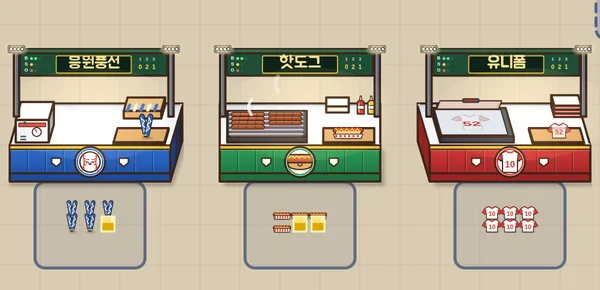
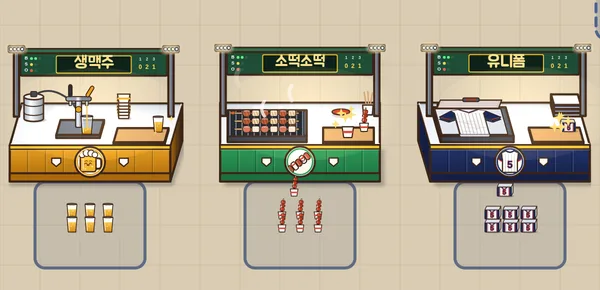
층층이: 10층 생맥주·소떡소떡(막대풍선·핫도그 교체), 두산 느낌 5번 유니폼(두께 있는 셔츠·프레스 위 천 두께), 팬 응원 타월

diff --git a/public/games/stack/index.html b/public/games/stack/index.html
@@ -325,31 +325,34 @@ const BUN_S = withDX(-16, () => boothDeck({ col:'#f2b630', dark:'#c4850f',
   PROP.box(22, 131, 82, 6, 30, '#3b414e', '#262a33', '#4a5262') +
   PROP.board(108, 0.04, 176, 0.34, '#d9a76a', '#b07e48', 4) +
   [0, 1].map(i => { const sx = 11*DX/DY, x = 194 + i*DX/16 + Math.min(0, DX)*1.2; return `<path d="M${x} ${100 - i*8} L${x + sx} ${89 - i*8} H${x + 30 + sx} L${x + 30} ${100 - i*8} Z" fill="#fbfcfd" stroke-width="1.5"/><path d="M${x} ${100 - i*8} H${x + 30} V${107 - i*8} H${x} Z" fill="#eef1f5" stroke-width="1.5"/><path d="M${x + 6 + sx/2} ${94.5 - i*8} H${x + 26 + sx/2}" stroke="#9aa6b8" stroke-width="1"/>`; }).join('')));   // 뒤: 접어 쌓아 둔 스티로폼 도시락(소품은 적게·크게) · 오른쪽 = 왼쪽 옆면
-// 10층 층층 야구장 매점(부스 틀) — 0번 응원 막대풍선(파랑) · 1번 핫도그(잔디 초록) · 2번 유니폼 마킹(빨강). 실제 구단 이름·로고·색 조합은 안 씀
+// 10층 층층 야구장 매점(부스 틀) — 0번 생맥주(호박색, 막대풍선은 금지라 바꿈 — 사용자) · 1번 소떡소떡(잔디 초록) · 2번 유니폼 마킹(남색 — 두산 느낌 색, 사용자 요청). 실제 구단 이름·로고는 안 씀
 const BB_ICON = {
-  ball: MCLIP + '<g clip-path="url(#mclip)"><circle cx="115" cy="156" r="13.5" fill="#fffdf6" stroke-width="1.8"/>' +   // 야구공 캐릭터: 빨간 실밥 + 웃는 얼굴
-    '<path d="M104.5 145 Q110 156 104.5 167 M125.5 145 Q120 156 125.5 167" fill="none" stroke="#d9302a" stroke-width="1.4"/>' +
-    [148, 152, 156, 160, 164].map(y => { const dx = 5.5 - Math.abs(y - 156)*0.35; return `<path d="M${104.5 + dx - 1.6} ${y - 1} l2.4 1.4 M${125.5 - dx + 1.6} ${y - 1} l-2.4 1.4" stroke="#d9302a" stroke-width="1"/>`; }).join('') +
-    MFACE(115, 156.5, 0.78, 'joy') + '</g>',
-  hotdog: MCLIP + '<g clip-path="url(#mclip)"><path d="M99 158 Q99 166 115 166 Q131 166 131 158 Q131 153 126 153 H104 Q99 153 99 158 Z" fill="#e8b46a" stroke-width="1.6"/>' +   // 핫도그: 빵 + 소시지(얼굴) + 머스터드
-    '<rect x="96" y="146" width="38" height="11" rx="5.5" fill="#c0603a" stroke-width="1.6"/><path d="M101 148.6 H128" stroke="#fff" stroke-width="1.2" opacity=".5"/>' +
-    '<path d="M100 151 l3.5 -3 3.5 3 3.5 -3 3.5 3 3.5 -3 3.5 3 3.5 -3 3.5 3" fill="none" stroke="#f2c230" stroke-width="1.6"/>' + MFACE(115, 159.5, 0.62) + '</g>',
+  beer: MCLIP + '<g clip-path="url(#mclip)"><path d="M122 151 h4 q4 0 4 4 v6 q0 4 -4 4 h-4" fill="none" stroke-width="2.6"/>' +   // 생맥주잔 캐릭터: 노란 맥주 + 흰 거품 구름 + 웃는 얼굴
+    '<rect x="102" y="147" width="21" height="22" rx="3" fill="#f2b630" stroke-width="1.8"/><path d="M106 152 V165" stroke="#fff" stroke-width="1.4" opacity=".6"/>' +
+    '<g fill="#fffdf6" stroke-width="1.3">' + [[104.5, 146, 4.2], [110.5, 144, 4.6], [116.5, 144.6, 4.4], [121.5, 146.4, 3.8]].map(([x, y, r]) => `<circle cx="${x}" cy="${y}" r="${r}"/>`).join('') + '</g>' +
+    '<g fill="#fff8d0" stroke="none"><circle cx="118" cy="162" r="1"/><circle cx="109" cy="165" r=".8"/></g>' + MFACE(112.5, 158, 0.72, 'joy') + '</g>',
+  sotteok: MCLIP + '<g clip-path="url(#mclip)"><g transform="rotate(-38 115 156)"><path d="M93 156 H137" stroke="#c99a6a" stroke-width="2"/>' +   // 소떡소떡 캐릭터: 소시지·떡 번갈아 꽂힌 꼬치 + 빨간 양념 + 가운데 떡에 얼굴
+    [[99, 's'], [106, 't'], [113, 's'], [120, 't'], [127, 's']].map(([x, k]) => k === 's' ? `<rect x="${x - 3.2}" y="151" width="6.4" height="10" rx="3" fill="#c0503a" stroke-width="1.3"/><path d="M${x - 1.6} 153 V159" stroke="#fff" stroke-width=".9" opacity=".5"/>`
+      : `<rect x="${x - 3}" y="150.5" width="6" height="11" rx="2" fill="#fff4e8" stroke-width="1.3"/><path d="M${x - 3} 153 Q${x} 155 ${x + 3} 153" fill="none" stroke="#d93a1f" stroke-width="1.6"/>`).join('') +
+    MFACE(120, 157, 0.42) + '</g><g fill="#fffaf0" stroke="none"><circle cx="104" cy="149" r=".8"/><circle cx="125" cy="162" r=".8"/></g></g>',
   jersey: MCLIP + '<g clip-path="url(#mclip)"><path d="M104 144 L109.5 141.5 Q115 145.5 120.5 141.5 L126 144 L132 151 L127 154.5 L125 153 V170 H105 V153 L103 154.5 L98 151 Z" fill="#fffdf6" stroke-width="1.6"/>' +   // 유니폼: 흰 바탕 + 빨간 소매·깃 + 등번호
-    '<path d="M104 144 L98 151 L103 154.5 L105 153 Z M126 144 L132 151 L127 154.5 L125 153 Z" fill="#d33a3a" stroke-width="1.2"/><path d="M109.5 141.5 Q115 145.5 120.5 141.5" fill="none" stroke="#d33a3a" stroke-width="1.8"/>' +
-    '<text x="115" y="163.5" font-family="Arial Black, Arial, sans-serif" font-weight="900" font-size="12" text-anchor="middle" fill="#d33a3a" stroke="none">10</text></g>',
+    '<g stroke="#1a2a5a" stroke-width=".7" opacity=".35">' + [109, 113, 117, 121].map(x => `<path d="M${x} 146 V169"/>`).join('') + '</g>' +   // 남색 핀스트라이프(두산 느낌 — 이름·로고는 안 씀)
+    '<path d="M104 144 L98 151 L103 154.5 L105 153 Z M126 144 L132 151 L127 154.5 L125 153 Z" fill="#1a2a5a" stroke-width="1.2"/><path d="M99.5 152.6 L103.6 155.4 M130.5 152.6 L126.4 155.4" stroke="#d33a3a" stroke-width="1.2"/><path d="M109.5 141.5 Q115 145.5 120.5 141.5" fill="none" stroke="#1a2a5a" stroke-width="2"/>' +
+    '<text x="115" y="164" font-family="Arial Black, Arial, sans-serif" font-weight="900" font-size="13" text-anchor="middle" fill="#1a2a5a" stroke="#d33a3a" stroke-width="1" paint-order="stroke">5</text></g>',
 };
-const BAL10 = boothDeck({ col:'#2f6fd1', dark:'#1c4a9a', icon:BB_ICON.ball, roof:'board', fence:true },
-  PROP.box(160, 98, 50, 10, 18, '#d9a76a', '#b07e48', '#e3b77e') + [0, 1, 2, 3, 4].map(i => `<path d="M${165 + i*9} ${87} L${168 + i*9} ${80} " stroke="${i % 2 ? '#fffaf0' : '#2f6fd1'}" stroke-width="4"/>`).join('') +   // 뒤: 접힌 막대풍선 상자
-  PROP.box(16, 130, 44, 30, 24, '#e8edf2', '#9aa6b8', '#f4f6f9') + '<rect x="20" y="104" width="36" height="5" fill="#e0453a" stroke-width="1"/><g fill="#4a5262" stroke="none"><rect x="22" y="121" width="8" height="2" rx="1"/><rect x="22" y="125" width="8" height="2" rx="1"/></g>' +   // 왼쪽: 공기 주입기
-  PROP.board(146, 0.02, 214, 0.36, '#d9a76a', '#b07e48', 3));
-const HOT10 = withDX(0, () => boothDeck({ col:'#2e9e5a', dark:'#1d6e3e', icon:BB_ICON.hotdog, roof:'board', fence:true },
-  PROP.box(18, 130, 106, 8, 34, '#3b414e', '#262a33', '#4a5262') +   // 롤러 그릴 받침(롤러는 anim)
-  PROP.board(146, 0.02, 214, 0.36, '#d9a76a', '#b07e48', 3) + PROP.bottle(196, 92, '#d9302a', '#f4efe6', 20) + PROP.bottle(210, 92, '#f2c230', '#f4efe6', 20) +
-  PROP.box(150, 90, 30, 8, 12, '#fff3d6', '#e3cfa6', '#fffaf0')));   // 뒤: 소스 두 병 + 빵 봉지
-const UNI10 = withDX(-16, () => boothDeck({ col:'#d33a3a', dark:'#9a2222', icon:BB_ICON.jersey, roof:'board', fence:true },
+const BEER10 = boothDeck({ col:'#e8a020', dark:'#a8680c', icon:BB_ICON.beer, roof:'board', fence:true },
+  `<ellipse cx="42" cy="100" rx="15" ry="3.5" fill="#1e2433" opacity=".22" stroke="none"/><path d="M27 69 V98 A13 4 0 0 0 53 98 V69 Z" fill="url(#kg)" stroke-width="2"/><path d="M27 78 A13 4 0 0 0 53 78 M27 90 A13 4 0 0 0 53 90" fill="none" stroke-width="1.4"/>` +   // 뒤 왼쪽: 은색 맥주 통(케그) + 꼭지 + 호스
+  `<ellipse cx="40" cy="69" rx="13" ry="4" fill="#dfe5ec" stroke-width="2"/><rect x="36" y="62" width="8" height="7" rx="1.5" fill="#3b414e" stroke-width="1.4"/><path d="M44 65 C66 54 88 70 96 84" fill="none" stroke="#2c313b" stroke-width="2.6"/>` +
+  PROP.box(70, 124, 58, 4, 20, '#4a5262', '#2c313b', '#6b7484') +   // 물받이(맥주 타워는 anim)
+  `<g transform="translate(160 98) scale(1.3) translate(-160 -98)">${PROP.cups(160, 98, 6, '#e8a020')}</g>` + PROP.board(146, 0.02, 214, 0.36, '#d9a76a', '#b07e48', 3),
+  '<linearGradient id="kg" x1="0" y1="0" x2="1" y2="0"><stop offset="0" stop-color="#9aa6b8"/><stop offset=".35" stop-color="#f4f6f9"/><stop offset="1" stop-color="#7d8798"/></linearGradient>');
+const SOT10 = withDX(0, () => boothDeck({ col:'#2e9e5a', dark:'#1d6e3e', icon:BB_ICON.sotteok, roof:'board', fence:true },
+  PROP.box(18, 130, 106, 8, 34, '#3b414e', '#262a33', '#4a5262') +   // 숯불 그릴 받침(석쇠·꼬치는 anim)
+  PROP.board(146, 0.02, 214, 0.36, '#d9a76a', '#b07e48', 3) + PROP.dish(170, 94, 12, '#e8edf2', '#c8361c') + PROP.chop(206, 94)));   // 뒤: 양념 그릇 + 꼬치 통
+const UNI10 = withDX(-16, () => boothDeck({ col:'#24356b', dark:'#141f45', icon:BB_ICON.jersey, roof:'board', fence:true },
   PROP.box(22, 130, 98, 8, 38, '#3b414e', '#262a33', '#4a5262') +   // 열 프레스 받침(판·윗판은 anim)
   PROP.board(146, 0.02, 214, 0.36, '#d9a76a', '#b07e48', 3) +
-  [0, 1, 2].map(i => PROP.box(174, 96 - i*5, 36, 5, 14, '#fffaf0', '#d9dee6', i === 2 ? '#fffaf0' : '#f4f6f9') + `<path d="M${174} ${93 - i*5} H${210}" stroke="#d33a3a" stroke-width="1.4"/>`).join('')));   // 뒤: 개어 둔 유니폼
+  [0, 1, 2].map(i => PROP.box(174, 96 - i*5, 36, 5, 14, '#fffaf0', '#d9dee6', i === 2 ? '#fffaf0' : '#f4f6f9') + `<path d="M${174} ${93 - i*5} H${210}" stroke="#1a2a5a" stroke-width="1.4"/>`).join('')));   // 뒤: 개어 둔 유니폼
 // 2층 붕어빵 가게 3대 — 1층처럼 위에서 본 넓은 작업대(빨간 손수레 + 남색 메뉴판 + 바퀴·손잡이). 철판·틀 속이 다 보이게
 const CART = { front:'url(#pk)', strip:'url(#dw)', board:'#2d4a7a', edge:'#a87449', wheels:true, tilt:0.62,
   mat:'<pattern id="pk" width="62" height="12" patternUnits="userSpaceOnUse"><rect width="62" height="12" fill="#e0614a"/><path d="M0 11.4 H62" stroke="#a83a2c" stroke-width="1.3"/><path d="M3 4 q12 -2.5 24 0 M30 8 q14 2.5 28 0" stroke="#c94a38" stroke-width=".9" fill="none"/><path d="M44 0 V11.4" stroke="#a83a2c" stroke-width="1"/><circle cx="41" cy="6" r=".9" fill="#a83a2c"/></pattern><pattern id="dw" width="40" height="14" patternUnits="userSpaceOnUse"><rect width="40" height="14" fill="#8c5a3a"/><path d="M0 4 q10 -2 20 0 t20 0 M0 10 q12 2 22 0 t18 0" stroke="#6e4228" stroke-width="1" fill="none"/></pattern><radialGradient id="ih" cx="30%" cy="20%" r="80%"><stop offset="0" stop-color="#6b7384"/><stop offset=".5" stop-color="#454c5a"/><stop offset="1" stop-color="#2e333d"/></radialGradient>',
@@ -569,11 +572,11 @@ const THEMES = [
     item:{ name:'굿즈', shape:'moonjar', top:'#f6f3ea', front:'#f6f3ea',
       vars:[{ shape:'bangga', top:'#2c2b35', front:'#d9a52e' }, { shape:'moonjar', top:'#f6f3ea', front:'#f6f3ea' }, { shape:'crown', top:'#4fae7d', front:'#e8b923' }] } },
   // 10층 야구장 매점(부스 틀, 1층과 같은 그림 기준) · jingle = 들어오면 응원 북·박수
-  { staff:{ body:'#f4f6fa', dark:'#2d3f6b', vest:'#2e9e5a', badge:'#fff', hat:'baseball', hatCol:'#d33a3a' }, big:1.2, lamp:false, booth:true, roof:'board', pop:true, shop:'층층 야구장 매점', sign:'#1d6e3e', ink:'#fff', awn:'#2e9e5a', img:HOT10, anim:animHotdog10, spot:[182, 124], reveal:0.72, up:-2, jingle:'cheer',
-    mach:[{ img:BAL10, anim:animBalloon10, spot:[190, 124], vdx:16 }, { vdx:0 }, { img:UNI10, anim:animUniform10, spot:[186, 124], vdx:-16 }],   // vdx = 시점(왼쪽·정면·오른쪽)
-    guests:['fan', 'fanB', 'kid', 'office'], order:['핫도그 {n}개요! 홈런 치기 전에!', '막대풍선 {n}쌍이요~ 응원해야죠!', '유니폼 마킹 {n}벌요! 번호는 아무거나!', '7회 전에 빨리요~ {n}개!'], thanks:['오늘은 이긴다!', '홈런~ 홈런~!', '응원 가자!', '직관은 핫도그지!'],
-    item:{ name:'야구장 굿즈', shape:'hotdog', top:'#e8b46a', front:'#b0502a',
-      vars:[{ shape:'thunder', front:'#2f6fd1' }, { shape:'hotdog', top:'#e8b46a', front:'#b0502a' }, { shape:'jersey', top:'#fffaf0', front:'#d33a3a' }] } }
+  { staff:{ body:'#f4f6fa', dark:'#2d3f6b', vest:'#2e9e5a', badge:'#fff', hat:'baseball', hatCol:'#d33a3a' }, big:1.2, lamp:false, booth:true, roof:'board', pop:true, shop:'층층 야구장 매점', sign:'#1d6e3e', ink:'#fff', awn:'#2e9e5a', img:SOT10, anim:animSotteok10, spot:[182, 124], reveal:0.72, up:-2, jingle:'cheer',
+    mach:[{ img:BEER10, anim:animBeer10, spot:[190, 124], vdx:16 }, { vdx:0 }, { img:UNI10, anim:animUniform10, spot:[186, 124], vdx:-16 }],   // vdx = 시점(왼쪽·정면·오른쪽)
+    guests:['fan', 'fanB', 'kid', 'office'], order:['생맥주 {n}잔이요! 시원하게!', '소떡소떡 {n}개요! 양념 듬뿍!', '유니폼 마킹 {n}벌요! 번호는 아무거나!', '7회 전에 빨리요~ {n}개!'], thanks:['오늘은 이긴다!', '홈런~ 홈런~!', '직관엔 소떡소떡!', '시원하다~!', '응원 가자!'],
+    item:{ name:'야구장 간식', shape:'sotteok', top:'#c0503a', front:'#fffaf0',
+      vars:[{ shape:'beer', top:'#fffdf6', front:'#e8a020' }, { shape:'sotteok', top:'#c0503a', front:'#fffaf0' }, { shape:'jersey', top:'#fffaf0', front:'#1a2a5a' }] } }
 ];
 // 가게 미리보기(설정): 지금 층을 다른 층 가게 모습으로 바꿔 봄. 그림만 바뀌고 값·저장은 그대로. null = 층대로, -1 = 원래 스타일
 let PREVIEW = null;
@@ -1963,9 +1966,9 @@ function item(x, y, z, kind, noBadge){
     ctx.strokeStyle = '#f2c27a'; ctx.lineWidth = 2.2*s; ctx.beginPath(); ctx.moveTo(sx + 3.6*s, sy - h - 1.8*s); ctx.lineTo(sx + 4.9*s, sy - h - 6*s); ctx.stroke();
     return;
   }
-  if (K.shape === 'thunder') { stickPair(sx, sy, scale*0.75, K.front, 1, 1, scale*0.7); return; }   // 10층: 묶은 막대풍선 한 쌍
-  if (K.shape === 'hotdog') { hotdogAt(sx, sy, scale*0.5, scale*0.7, { ketchup:1, mustard:1, paper:1 }); return; }   // 종이 받침 핫도그
-  if (K.shape === 'jersey') { jerseyAt(sx, sy, scale*0.7, scale*0.7, K.front, 10); return; }   // 마킹한 유니폼
+  if (K.shape === 'beer') { beerCup(sx, sy, scale*0.62, scale*0.7); return; }   // 10층: 거품 가득 생맥주 컵
+  if (K.shape === 'sotteok') { sotteokCup(sx, sy, scale*0.55, scale*0.7); return; }   // 종이컵에 꽂은 소떡소떡
+  if (K.shape === 'jersey') { jerseyAt(sx, sy, scale*0.75, scale*0.7); return; }   // 개어 둔 5번 유니폼
   if (K.shape === 'sundae') { styroBox(sx, sy, scale, 0.62, 1); return; }   // 순대: 닫힌 스티로폼 도시락
   if (K.shape === 'kimbap') { foilRoll(sx, sy, scale, 0.62); return; }   // 김밥: 은박에 둘둘 만 한 줄
   const w = 14*scale, h = 9*scale;
@@ -2317,106 +2320,117 @@ function animSundae({ S2, u, now, prog, work, s }){
 
 }
 // ---- 10층 야구장 매점(부스 그림풍) ----
-function stickPair(x, yb, q, col, tie = 1, spread = 1, u = q){   // 세워 묶은 막대풍선 한 쌍(V자), (x, yb) = 묶은 아래 끝
-  ctx.fillStyle = 'rgba(30,36,51,.22)'; ctx.beginPath(); ctx.ellipse(x + 1*q, yb, 6*q, 1.8*q, 0, 0, Math.PI*2); ctx.fill();
-  [-1, 1].forEach(d => { ctx.save(); ctx.translate(x, yb - 1*q); ctx.rotate(d*0.2*spread);
-    rr(-2.6*q, -24*q, 5.2*q, 24*q, 2.6*q); const g = ctx.createLinearGradient(-2.6*q, 0, 2.6*q, 0); g.addColorStop(0, col); g.addColorStop(1, shadeHex(col)); ctx.fillStyle = g; ctx.fill(); inkStroke(1, u);
-    ctx.strokeStyle = '#fff'; ctx.lineWidth = 1*q; ctx.beginPath(); for (let i = 0; i < 5; i++) ctx.lineTo((i % 2 ? 1.4 : -1.4)*q, -20*q + i*3.6*q); ctx.stroke();   // 흰 지그재그 무늬
-    ctx.fillStyle = 'rgba(255,255,255,.55)'; ctx.fillRect(-1.6*q, -21*q, 0.9*q, 15*q); ctx.restore(); });
-  if (tie > 0) { ctx.strokeStyle = '#f2c230'; ctx.lineWidth = 1.4*q; ctx.beginPath(); ctx.moveTo(x - 3*q, yb - 3*q); ctx.lineTo(x - 3*q + 6*q*tie, yb - 3*q); ctx.stroke(); }
+function beerCup(x, yb, q, u, f = 1, foam = 1){   // 투명 플라스틱 맥주 컵(위가 넓음), f = 맥주 찬 정도, foam = 거품(1 넘으면 넘칠 듯 봉긋)
+  const H = 24*q, wt = 8*q, wb = 6*q, X = t => wb + (wt - wb)*t, cup = h => { const w = X(h/H); ctx.beginPath(); ctx.moveTo(x - wb, yb); ctx.lineTo(x - w, yb - h); ctx.lineTo(x + w, yb - h); ctx.lineTo(x + wb, yb); ctx.closePath(); };
+  ctx.fillStyle = 'rgba(30,36,51,.2)'; ctx.beginPath(); ctx.ellipse(x + 1*q, yb, wb + 2*q, 1.8*q, 0, 0, Math.PI*2); ctx.fill();
+  cup(H); ctx.fillStyle = 'rgba(235,245,252,.55)'; ctx.fill();
+  const h = H*0.72*f;
+  if (f > 0) { cup(h); const g = ctx.createLinearGradient(0, yb - h, 0, yb); g.addColorStop(0, '#f9cf55'); g.addColorStop(1, '#d98a14'); ctx.fillStyle = g; ctx.fill();
+    const now = performance.now(); ctx.fillStyle = 'rgba(255,250,215,.85)'; for (let i = 0; i < 4; i++) { const t = (now/900 + i*0.27) % 1; if (t*h > h - 2*q) continue; ctx.beginPath(); ctx.arc(x + (i - 1.5)*3*q, yb - 2*q - t*(h - 2*q), 0.7*q, 0, Math.PI*2); ctx.fill(); } }   // 올라가는 기포
+  if (f > 0 && foam > 0) { const w = X(h/H), fh = 6.5*q*foam; rr(x - w - 0.4*q, yb - h - fh, w*2 + 0.8*q, fh + 1.5*q, 1.5*q); ctx.fillStyle = '#fffdf6'; ctx.fill();   // 거품(위가 몽글몽글)
+    for (let i = 0; i < 4; i++) { ctx.beginPath(); ctx.arc(x - w + w*0.5 + i*w*0.5 - 0.6*q, yb - h - fh + 0.6*q, w*0.34, Math.PI, 0); ctx.fill(); } }
+  cup(H); ctx.strokeStyle = INK; ctx.lineWidth = 1.1*u; ctx.stroke();
+  ctx.beginPath(); ctx.ellipse(x, yb - H, wt, 1.4*q, 0, 0, Math.PI*2); ctx.lineWidth = 0.9*u; ctx.stroke();
+  ctx.strokeStyle = 'rgba(255,255,255,.75)'; ctx.lineWidth = 1.2*q; ctx.beginPath(); ctx.moveTo(x - wb + 1.6*q, yb - 2.5*q); ctx.lineTo(x - wt + 2.2*q, yb - H + 3*q); ctx.stroke();   // 컵 반사
 }
-function thunderLying(x0, y, f, col, u){   // 작업대에 누운 막대풍선: f 0 = 납작 · 1 = 빵빵
-  const len = (58 + 22*f)*u, r = (1.4 + 5.6*f)*u;
-  ctx.fillStyle = 'rgba(30,36,51,.2)'; ctx.beginPath(); ctx.ellipse(x0 + len/2 + 2*u, y + r, len/2, 1.4*u + r*0.3, 0, 0, Math.PI*2); ctx.fill();
-  rr(x0, y - r, len, r*2, r); const g = ctx.createLinearGradient(0, y - r, 0, y + r); g.addColorStop(0, col); g.addColorStop(1, shadeHex(col)); ctx.fillStyle = g; ctx.fill(); inkStroke(1.1, u);
-  if (f > 0.25) { ctx.strokeStyle = `rgba(255,255,255,${f})`; ctx.lineWidth = 1*u; ctx.beginPath(); for (let i = 0; i < 9; i++) ctx.lineTo(x0 + 6*u + i*(len - 12*u)/8, y + (i % 2 ? 1 : -1)*r*0.45); ctx.stroke();
-    ctx.fillStyle = 'rgba(255,255,255,.6)'; rr(x0 + 4*u, y - r*0.75, len - 10*u, Math.max(0.6*u, r*0.28), r*0.14); ctx.fill(); }
-  ctx.beginPath(); ctx.moveTo(x0 + 1*u, y); ctx.lineTo(x0 - 3*u, y - 2*u); ctx.lineTo(x0 - 3*u, y + 2*u); ctx.closePath(); ctx.fillStyle = shadeHex(col); ctx.fill();   // 꼭지
-}
-// 0번 응원 막대풍선: 공기 주입기 호스로 하나(4~32%) → 둘째(30~58%) 빵빵 → 세워서 한 쌍으로 묶기(58~70%) → 앞 나무 판
-function animBalloon10({ S2, u, now, prog, work, s }){
-  menuSign(S2, u, now, s, '응원풍선', '#ffe08a', 23, 21);
-  const col = '#2f6fd1', f1 = work ? lerp01(prog, 0.04, 0.32) : 1, f2 = work ? lerp01(prog, 0.3, 0.58) : 1, up = work ? lerp01(prog, 0.58, 0.66) : 0, tie = work ? lerp01(prog, 0.64, 0.7) : 0;
-  const pumping = work && prog > 0.04 && prog < 0.58, act = prog < 0.31 ? 0 : 1;
-  { const [gx, gy] = S2(44, 116); ctx.beginPath(); ctx.arc(gx, gy, 6*u, 0, Math.PI*2); ctx.fillStyle = '#fffdf6'; ctx.fill(); inkStroke(1.4, u);   // 압력계(펌프질하면 바늘이 오름)
-    const a = -2.4 + (pumping ? 2 + Math.sin(now/50)*0.2 : 0.3); ctx.strokeStyle = '#d9302a'; ctx.lineWidth = 1.3*u; ctx.beginPath(); ctx.moveTo(gx, gy); ctx.lineTo(gx + Math.cos(a)*4.6*u, gy + Math.sin(a)*4.6*u); ctx.stroke();
-    const [lx, ly] = S2(28, 108); ctx.fillStyle = pumping && Math.floor(now/200) % 2 ? '#5df08a' : '#2a6a3a'; ctx.beginPath(); ctx.arc(lx, ly - 4*u, 2*u, 0, Math.PI*2); ctx.fill(); }
-  const B = [[...S2(...BP(68, 0.36))], [...S2(...BP(68, 0.14))]], F = [f1, f2];
-  if (up <= 0) B.forEach(([x, y], i) => thunderLying(x, y - 6*u, F[i], col, u));
-  if (pumping) { const [hx, hy] = S2(58, 100), [nx, ny] = B[act], ex = nx - 4*u, ey = ny - 4*u;   // 호스
-    ctx.strokeStyle = INK; ctx.lineWidth = 3.4*u; ctx.beginPath(); ctx.moveTo(hx, hy); ctx.bezierCurveTo(hx + 10*u, hy + 4*u, ex - 12*u, ey - 10*u, ex, ey); ctx.stroke(); ctx.strokeStyle = '#4a5262'; ctx.lineWidth = 2*u; ctx.stroke();
-    for (let i = 0; i < 3; i++) { const t = (now/240 + i/3) % 1; ctx.strokeStyle = `rgba(255,255,255,${0.9*(1 - t)})`; ctx.lineWidth = 1*u; ctx.beginPath(); ctx.moveTo(ex - 2*u - t*6*u, ey - 3*u - i*2*u); ctx.lineTo(ex - 5*u - t*6*u, ey - 4*u - i*2*u); ctx.stroke(); } }
+// 0번 생맥주: 맥주 타워(크롬 기둥 + 꼭지 둘 + 손잡이) — 물받이 위 빈 컵 → 오른쪽 손잡이 당기면 콸콸(6~50%, 맥주가 차오르고 30%부터 거품) → 거품 가라앉힘(50~60%) → 앞 나무 판으로(62~72%)
+function animBeer10({ S2, u, now, prog, work, s }){
+  menuSign(S2, u, now, s, '생맥주', '#ffe08a', 23, 23);
+  const [bx, b0] = S2(...BP(94, 0.36)), by = b0 - 4*u, top = by - 38*u, sx = bx + 11*u;   // 타워 바닥(물받이 위) · 꼭지 x
+  const pour = work && prog > 0.06 && prog < 0.5, f = work ? lerp01(prog, 0.06, 0.5) : 1, foam = work ? (prog < 0.3 ? 0 : prog < 0.5 ? 1.3*lerp01(prog, 0.3, 0.45) : 1.3 - 0.3*lerp01(prog, 0.5, 0.6)) : 1;
+  const [, c0] = S2(...BP(99, 0.2)), cy = c0 - 4*u;
+  { const g = ctx.createLinearGradient(bx - 4*u, 0, bx + 4*u, 0); g.addColorStop(0, '#9aa6b8'); g.addColorStop(0.4, '#f7f9fb'); g.addColorStop(1, '#7d8798'); rr(bx - 4*u, top, 8*u, by - top, 2*u); ctx.fillStyle = g; ctx.fill(); inkStroke(1.4, u);   // 크롬 기둥
+    ctx.beginPath(); ctx.arc(bx, top + 14*u, 4*u, 0, Math.PI*2); ctx.fillStyle = '#e8a020'; ctx.fill(); inkStroke(1, u);   // 기둥 메달
+    rr(bx - 17*u, top - 3*u, 34*u, 6*u, 3*u); ctx.fillStyle = g; ctx.fill(); inkStroke(1.4, u);   // 가로대
+    [-11, 11].forEach(d => { const on = d > 0 && pour, a = on ? 0.55 : 0, hx = bx + d*u;   // 손잡이(당기면 앞으로 기울어짐) + 꼭지
+      ctx.save(); ctx.translate(hx, top - 3*u); ctx.rotate(a); rr(-2.4*u, -16*u, 4.8*u, 16*u, 2.4*u); ctx.fillStyle = d > 0 ? '#e8a020' : '#2c313b'; ctx.fill(); inkStroke(1.2, u); ctx.restore();
+      ctx.beginPath(); ctx.moveTo(hx - 2*u, top + 3*u); ctx.lineTo(hx - 1.5*u, top + 9*u); ctx.lineTo(hx + 1.5*u, top + 9*u); ctx.lineTo(hx + 2*u, top + 3*u); ctx.closePath(); ctx.fillStyle = '#cfd6e0'; ctx.fill(); inkStroke(1, u); }); }
+  if (!work || prog < 0.62) beerCup(sx, cy, u, u, f, foam);
+  if (pour) { ctx.strokeStyle = 'rgba(242,182,48,.95)'; ctx.lineWidth = (2.2 + Math.sin(now/60)*0.4)*u; ctx.beginPath(); ctx.moveTo(sx, top + 9*u); ctx.lineTo(sx + Math.sin(now/90)*0.4*u, cy - 24*u*0.72*f); ctx.stroke();   // 맥주 줄기
+    ctx.strokeStyle = 'rgba(255,255,255,.6)'; ctx.lineWidth = 0.7*u; ctx.stroke(); }
   const [px, py] = S2(190, 124);
-  if (work && up > 0 && prog < 0.72) { ctx.save(); ctx.globalAlpha = up; stickPair(px, py, u*(0.9 + 0.4*up), col, tie, 1 + 0.3*Math.sin(now/90)*(1 - tie), u); ctx.restore();
-    if (tie >= 1) for (let i = 0; i < 6; i++) { const a = i/6*Math.PI*2 + now/300; ctx.strokeStyle = '#ffe08a'; ctx.lineWidth = 1.4*u; ctx.beginPath(); ctx.moveTo(px + Math.cos(a)*16*u, py - 26*u + Math.sin(a)*10*u); ctx.lineTo(px + Math.cos(a)*21*u, py - 26*u + Math.sin(a)*13*u); ctx.stroke(); } }   // '짝!' 반짝
-  if (!work || prog < 0.58) stickPair(...S2(204, 122), u*0.9, col, 1, 1, u);   // 판 위에 만들어 둔 한 쌍(늘 하나)
+  if (work && prog >= 0.62 && prog < 0.72) { const t = lerp01(prog, 0.62, 0.71), x = sx + (px - sx)*t, y = cy + (py - cy)*t - Math.sin(t*Math.PI)*16*u; beerCup(x, y, u, u, 1, 1); }   // 판으로 옮김
+  if (!work || prog < 0.62) beerCup(...S2(206, 116), u*0.85, u, 1, 1);   // 판 위에 따라 둔 한 잔
 }
-// 1번 핫도그: 롤러 그릴(롤러 여섯 줄 + 소시지 여덟 개가 빙글) — 앞 오른쪽 소시지가 노릇(0~40%) → 빵으로 쏙(40~48%) → 케첩(50~60%) · 머스터드(60~68%) 지그재그 → 종이 받침(68~72%)
-function hotdogAt(x, yb, q, u, o = {}){   // 옆에서 본 핫도그(빵 + 소시지 + 소스), o = { sausage, ketchup 0~1, mustard 0~1, paper 0~1 }
-  const w = 30*q; ctx.fillStyle = 'rgba(30,36,51,.22)'; ctx.beginPath(); ctx.ellipse(x + 1*q, yb, w/2 + 2*q, 2*q, 0, 0, Math.PI*2); ctx.fill();
-  rr(x - w/2, yb - 9*q, w, 9*q, 4.5*q); const g = ctx.createLinearGradient(0, yb - 9*q, 0, yb); g.addColorStop(0, '#f2c98a'); g.addColorStop(1, '#c98a3e'); ctx.fillStyle = g; ctx.fill(); inkStroke(1.1, u);   // 빵(벌어진 아래쪽)
-  if (o.sausage !== false) { rr(x - w/2 - 2.5*q, yb - 12*q, w + 5*q, 6*q, 3*q); const sg = ctx.createLinearGradient(0, yb - 12*q, 0, yb - 6*q); sg.addColorStop(0, '#d9784a'); sg.addColorStop(1, '#9a4220'); ctx.fillStyle = sg; ctx.fill(); inkStroke(1, u);
-    ctx.fillStyle = 'rgba(255,255,255,.55)'; ctx.fillRect(x - w/2, yb - 11*q, w - 4*q, 1*q); }
-  rr(x - w/2 + 1*q, yb - 8*q, w - 2*q, 4*q, 2*q); ctx.fillStyle = '#f6d6a0'; ctx.fill();   // 빵 앞쪽 볼록
-  const zig = (f, c, dy) => { if (f <= 0) return; ctx.strokeStyle = c; ctx.lineWidth = 1.6*q; ctx.beginPath(); const n = Math.max(1, Math.floor(f*9)); for (let i = 0; i <= n; i++) ctx.lineTo(x - w/2 + 1*q + i*(w - 2*q)/9, yb - 10*q + dy + (i % 2 ? 1.6 : -1.6)*q); ctx.stroke(); };
-  zig(o.ketchup || 0, '#d9302a', -0.6*q); zig(o.mustard || 0, '#f2c230', 0.8*q);
-  if (o.paper > 0) { const h = 7*q*o.paper; ctx.beginPath(); ctx.moveTo(x - w/2 - 2*q, yb - h); ctx.lineTo(x + w/2 + 2*q, yb - h); ctx.lineTo(x + w/2, yb + 0.5*q); ctx.lineTo(x - w/2, yb + 0.5*q); ctx.closePath(); ctx.fillStyle = '#fffaf0'; ctx.fill(); inkStroke(1, u);   // 종이 받침(빨간 체크)
-    ctx.fillStyle = '#e0453a'; for (let i = 0; i < 6; i++) ctx.fillRect(x - w/2 + i*w/6, yb - h + 1*q, w/12, Math.max(0, h - 2*q)); }
+// 1번 소떡소떡: 숯불 석쇠 위 꼬치 넷(소시지·떡 번갈아) — 맨 앞 꼬치가 노릇 + 석쇠 자국(0~40%) → 붓으로 빨간 양념(40~60%) → 깨·파슬리(60~66%) → 앞 종이컵에 쏙(66~72%)
+function skewer(x, y, len, ang, q, u, cook = 1, sauce = 1, seed = 1, n = 6){   // (x, y) = 꼬치 가운데, ang 0 = 가로(손잡이가 왼쪽) · -π/2 = 세움(손잡이가 아래)
+  ctx.save(); ctx.translate(x, y); ctx.rotate(ang);
+  ctx.strokeStyle = INK; ctx.lineWidth = 2.6*q; ctx.beginPath(); ctx.moveTo(-len/2 - 8*q, 0); ctx.lineTo(len/2 + 2*q, 0); ctx.stroke(); ctx.strokeStyle = '#d9b884'; ctx.lineWidth = 1.4*q; ctx.stroke();
+  const p = len/n, mix = (a, b, t) => { const A = parseInt(a.slice(1), 16), B = parseInt(b.slice(1), 16), c = sh => Math.round(((A >> sh) & 255) + (((B >> sh) & 255) - ((A >> sh) & 255))*t); return `rgb(${c(16)},${c(8)},${c(0)})`; };
+  for (let i = 0; i < n; i++) { const cx = -len/2 + p*(i + 0.5), sau = i % 2 === 0, w = p*(sau ? 0.9 : 0.82), h = (sau ? 8 : 7.2)*q;
+    rr(cx - w/2, -h/2, w, h, sau ? h/2 : 1.6*q); ctx.fillStyle = sau ? mix('#e8907a', '#b0502a', cook) : mix('#fff4e8', '#f2d0a0', cook); ctx.fill(); ctx.strokeStyle = INK; ctx.lineWidth = 0.9*u; ctx.stroke();
+    if (cook > 0.5) { ctx.strokeStyle = `rgba(60,25,10,${0.6*(cook - 0.5)*2})`; ctx.lineWidth = 0.9*q; [-0.2, 0.2].forEach(d => { ctx.beginPath(); ctx.moveTo(cx + d*w - 1*q, -h/2 + 1*q); ctx.lineTo(cx + d*w + 1*q, h/2 - 1*q); ctx.stroke(); }); }   // 석쇠 자국
+    const sv = Math.max(0, Math.min(1, sauce*n - i)); if (sv > 0) { ctx.save(); rr(cx - w/2, -h/2, w, h, sau ? h/2 : 1.6*q); ctx.clip(); ctx.fillStyle = 'rgba(205,40,18,.82)'; ctx.fillRect(cx - w/2, -h/2, w*sv, h); ctx.restore(); }   // 양념(붓 지나간 만큼)
+    ctx.fillStyle = 'rgba(255,255,255,.55)'; ctx.fillRect(cx - w/2 + 1*q, -h/2 + 1*q, w - 2*q, 0.9*q); }
+  if (seed > 0) { ctx.fillStyle = '#fffaf0'; for (let i = 0; i < Math.round(9*seed); i++) { ctx.beginPath(); ctx.ellipse(-len/2 + (i*7.3 % len), ((i*5) % 5 - 2)*q, 0.8*q, 0.45*q, i, 0, Math.PI*2); ctx.fill(); }
+    ctx.fillStyle = '#4f9a3a'; for (let i = 0; i < Math.round(5*seed); i++) ctx.fillRect(-len/2 + (i*11.9 % len), (((i*3) % 4) - 2)*q, 1.1*q, 1.1*q); }   // 깨·파슬리
+  ctx.restore();
 }
-function animHotdog10({ S2, u, now, prog, work, s }){
-  menuSign(S2, u, now, s, '핫도그', '#ffe08a', 23, 23);
+function sotteokCup(x, yb, q, u, cook = 1, sauce = 1, seed = 1){   // 종이컵에 세워 꽂은 소떡소떡
+  skewer(x + 1*q, yb - 6*q - 15*q, 26*q, -Math.PI/2 + 0.12, q, u, cook, sauce, seed, 4);   // 컵에는 짧게 네 알
+  paperCup(x, yb, q, 1, 0);
+}
+function animSotteok10({ S2, u, now, prog, work, s }){
+  menuSign(S2, u, now, s, '소떡소떡', '#ffe08a', 23, 21);
   const bl = S2(27.7, 88, 96), br = S2(133.7, 88, 96), fl = S2(18, 122, 130), P = (lx, ly) => [bl[0] + (br[0] - bl[0])*lx/100 + (fl[0] - bl[0])*ly/100, bl[1] + (fl[1] - bl[1])*ly/100];
   const hot = !s.broken;
-  for (let i = 0; i < 6; i++) { const ly = 8 + i*16.8, [a, y] = P(3, ly), [b] = P(97, ly);   // 롤러(뒤에서부터) + 사이 열선 빛
-    if (hot) { ctx.fillStyle = `rgba(255,${110 + 40*Math.sin(now/300 + i)},40,.55)`; ctx.fillRect(a + 2*u, y + 1.2*u, b - a - 4*u, 1.6*u); }
-    rr(a, y - 1.8*u, b - a, 3.6*u, 1.8*u); const g = ctx.createLinearGradient(0, y - 1.8*u, 0, y + 1.8*u); g.addColorStop(0, '#f4f6f9'); g.addColorStop(0.5, '#a8b2c0'); g.addColorStop(1, '#5d6474'); ctx.fillStyle = g; ctx.fill(); }
-  const cook = work ? lerp01(prog, 0, 0.4) : 1, gone = work && prog > 0.4;
-  for (let j = 0; j < 4; j++) for (let c = 0; c < 2; c++) {   // 소시지 여덟(롤러 사이), j = 0 뒤 ~ 3 앞, 오른쪽 앞(c 1, j 3)이 이번 차례
-    const mine = c === 1 && j === 3; if (mine && gone) continue;
-    const [x0, y] = P(6 + c*47, 16 + j*16.8), [x1] = P(48 + c*47, 16 + j*16.8), r = 2.7*u, ph = now/(hot ? 180 : 1e9) + j + c*2;
-    const col = mine ? ['#e8907a', '#d9784a', '#b0502a'][Math.min(2, Math.floor(cook*3))] : '#b9582c';
-    rr(x0, y - r - 1*u, x1 - x0, r*2, r); const g = ctx.createLinearGradient(0, y - r, 0, y + r); g.addColorStop(0, col); g.addColorStop(1, shadeHex(col)); ctx.fillStyle = g; ctx.fill(); inkStroke(0.9, u);
-    ctx.fillStyle = 'rgba(255,255,255,.55)'; ctx.fillRect(x0 + 3*u, y - r - 1*u + (1 + Math.sin(ph))*0.9*u, x1 - x0 - 6*u, 0.9*u);   // 굴러가는 윤기
-    if (!mine || cook > 0.5) { ctx.strokeStyle = 'rgba(70,25,10,.5)'; ctx.lineWidth = 0.9*u; for (let m = 1; m < 4; m++) { const mx = x0 + (x1 - x0)*m/4 + Math.sin(ph)*1.5*u; ctx.beginPath(); ctx.moveTo(mx, y - r); ctx.lineTo(mx - 1*u, y + r - 1.5*u); ctx.stroke(); } } }   // 그릴 자국
-  if (work) steam(S2, u, now, [52, 92], 96, 113);
-  const [hx, hy] = S2(182, 124), K = work ? { ketchup: lerp01(prog, 0.5, 0.6), mustard: lerp01(prog, 0.6, 0.68), paper: lerp01(prog, 0.68, 0.72) } : {};
-  if (work && prog > 0.72) return;
-  hotdogAt(hx, hy, u*1.15, u, { ...K, sausage: !work || prog >= 0.48 });
-  if (work && prog > 0.4 && prog < 0.48) { const t = (prog - 0.4)/0.08, [sx0, sy0] = P(71, 66.4), x = sx0 + (hx - sx0)*t, y = sy0 + (hy - 12*u - sy0)*t - Math.sin(t*Math.PI)*22*u;   // 소시지가 빵으로 휙
-    rr(x - 18*u, y - 3*u, 36*u, 6*u, 3*u); ctx.fillStyle = '#b0502a'; ctx.fill(); inkStroke(1, u); }
-  const sq = (a, b, c, col) => { if (!(work && prog > a && prog < b)) return; const t = (prog - a)/(b - a), x = hx - 17*u + 34*u*t, y = hy - 30*u + Math.sin(t*Math.PI*9)*1.5*u;   // 거꾸로 든 소스 병이 지그재그로
-    ctx.save(); ctx.translate(x, y); ctx.rotate(Math.PI + 0.25); rr(-4.5*u, -18*u, 9*u, 14*u, 3*u); ctx.fillStyle = col; ctx.fill(); inkStroke(1.4, u); ctx.beginPath(); ctx.moveTo(-1.6*u, -4*u); ctx.lineTo(-0.6*u, 2*u); ctx.lineTo(0.6*u, 2*u); ctx.lineTo(1.6*u, -4*u); ctx.closePath(); ctx.fillStyle = '#f4efe6'; ctx.fill(); inkStroke(1, u); ctx.restore();
-    ctx.strokeStyle = col; ctx.lineWidth = 1.4*u; ctx.beginPath(); ctx.moveTo(x - 0.6*u, y + 2*u); ctx.lineTo(x, hy - 12*u); ctx.stroke(); };
-  sq(0.5, 0.6, 0, '#d9302a'); sq(0.6, 0.68, 0, '#f2c230');
+  { const q4 = [P(2, 4), P(98, 4), P(98, 96), P(2, 96)]; ctx.beginPath(); q4.forEach(([x, y], i) => i ? ctx.lineTo(x, y) : ctx.moveTo(x, y)); ctx.closePath(); ctx.fillStyle = '#2a2d33'; ctx.fill();   // 숯불(틈으로 깜빡)
+    if (hot) for (let i = 0; i < 14; i++) { const [x, y] = P(8 + (i*37) % 86, 10 + (i*23) % 80), a = 0.35 + 0.35*Math.sin(now/170 + i*1.9); ctx.fillStyle = `rgba(255,${90 + (i % 3)*30},30,${a})`; ctx.beginPath(); ctx.ellipse(x, y, 4*u, 1.8*u, 0, 0, Math.PI*2); ctx.fill(); } }
+  ctx.strokeStyle = '#8d98aa'; ctx.lineWidth = 1.3*u; for (let i = 0; i <= 12; i++) { const [a, b] = P(4 + i*7.67, 4), [c, d] = P(4 + i*7.67, 96); ctx.beginPath(); ctx.moveTo(a, b); ctx.lineTo(c, d); ctx.stroke(); }   // 석쇠 살
+  const cook = work ? lerp01(prog, 0, 0.4) : 1, sauce = work ? lerp01(prog, 0.4, 0.6) : 1, seed = work ? lerp01(prog, 0.6, 0.66) : 1, gone = work && prog > 0.66;
+  for (let j = 0; j < 3; j++) { const mine = j === 2; if (mine && gone) continue;   // 꼬치 셋(뒤 → 앞), 맨 앞이 이번 차례 — 뒤 둘은 굽는 중(양념 전)
+    const [x0, y] = P(10, 20 + j*31), [x1] = P(90, 20 + j*31);
+    skewer((x0 + x1)/2 + 4*u, y - 3*u, (x1 - x0)*0.86, 0, u*1.15, u, mine ? cook : 0.7 + 0.1*j, mine ? sauce : 0, mine ? seed : 0); }
+  if (work) steam(S2, u, now, [44, 76, 108], 100, 113);
+  const [x0, yF] = P(10, 82), [x1] = P(90, 82);
+  if (work && prog > 0.4 && prog < 0.6) { const bx = x0 + 6*u + (x1 - x0 - 6*u)*sauce, byy = yF - 8*u + Math.sin(now/70)*1.5*u;   // 양념 붓
+    ctx.save(); ctx.translate(bx, byy); ctx.rotate(-0.7); rr(-1.5*u, -22*u, 3*u, 18*u, 1.5*u); ctx.fillStyle = '#c99a6a'; ctx.fill(); inkStroke(0.9, u); rr(-3*u, -5*u, 6*u, 7*u, 1.5*u); ctx.fillStyle = '#d93a1f'; ctx.fill(); inkStroke(0.9, u); ctx.restore(); }
+  const [cx, cy] = S2(182, 124);
+  if (work && prog > 0.66 && prog < 0.72) { const t = lerp01(prog, 0.66, 0.71), x = (x0 + x1)/2 + (cx - (x0 + x1)/2)*t, y = yF + (cy - 28*u - yF)*t - Math.sin(t*Math.PI)*20*u;   // 꼬치가 일어나 컵으로 쏙
+    skewer(x, y, (x1 - x0)*0.86*(1 - 0.5*t), -t*(Math.PI/2 - 0.12), u*1.15, u); }
+  if (!(work && prog >= 0.72)) paperCup(cx, cy, u*1.1, 1, 0);   // 앞 판 위 빈 종이컵
+  if (!work || prog < 0.66) sotteokCup(...S2(206, 116), u*0.85, u);   // 판 위에 꽂아 둔 하나
 }
 // 2번 유니폼 마킹: 흰 유니폼을 열 프레스 판에(0~12%) → 번호 필름(12~26%) → 윗판이 '쿵' 내려와 꾹(30~55%, 김·빨간 불·3·2·1) → 올라감 → 필름 떼면 번호 또렷(60~66%) → 개서 앞 판으로(66~72%)
-const JERSEY_NUMS = [10, 7, 25, 1, 52, 33, 99, 17];
-function jerseyFlat(n, col, numA = 1, film = 0){   // 판 위에 펼친 유니폼(지역 좌표 0~100: x 왼→오, y 뒤→앞, 깃이 뒤)
-  const poly = (pts, fill) => { ctx.beginPath(); pts.forEach(([x, y], i) => i ? ctx.lineTo(x, y) : ctx.moveTo(x, y)); ctx.closePath(); ctx.fillStyle = fill; ctx.fill(); ctx.strokeStyle = INK; ctx.lineWidth = 1.4; ctx.stroke(); };
-  poly([[38, 8], [50, 18], [62, 8], [74, 13], [92, 34], [80, 44], [70, 36], [70, 94], [30, 94], [30, 36], [20, 44], [8, 34], [26, 13]], '#fffdf6');
-  poly([[26, 13], [8, 34], [20, 44], [30, 36], [30, 20]], col); poly([[74, 13], [92, 34], [80, 44], [70, 36], [70, 20]], col);
-  ctx.strokeStyle = col; ctx.lineWidth = 3; ctx.beginPath(); ctx.moveTo(38, 9); ctx.lineTo(50, 19); ctx.lineTo(62, 9); ctx.stroke();
-  ctx.strokeStyle = 'rgba(56,68,90,.15)'; ctx.lineWidth = 1; for (let x = 36; x < 70; x += 6) { ctx.beginPath(); ctx.moveTo(x, 22); ctx.lineTo(x, 92); ctx.stroke(); }   // 줄무늬
-  if (numA > 0) { ctx.save(); ctx.globalAlpha = numA; ctx.font = `900 36px 'Arial Black', Arial, ${FONT}`; ctx.textAlign = 'center'; ctx.textBaseline = 'middle'; ctx.fillStyle = col; ctx.fillText(String(n), 50, 62); ctx.restore(); }
+const JN = '#1a2a5a', JR = '#d33a3a', JERSEY_NO = 5;   // 유니폼: 흰 바탕 + 남색(글씨·소매·핀스트라이프) + 빨간 테두리 — 두산 느낌(사용자), 이름·로고는 안 씀 · 번호 5
+function jerseyFlat(n, col, numA = 1, film = 0, th = [0, 0]){   // 판 위에 펼친 유니폼(지역 좌표 0~100: x 왼→오, y 뒤→앞, 깃이 뒤), th = 천 두께(화면 아래쪽을 지역 좌표로)
+  const poly = (pts, fill, sw = 1.4) => { ctx.beginPath(); pts.forEach(([x, y], i) => i ? ctx.lineTo(x, y) : ctx.moveTo(x, y)); ctx.closePath(); ctx.fillStyle = fill; ctx.fill(); if (sw) { ctx.strokeStyle = INK; ctx.lineWidth = sw; ctx.stroke(); } };
+  const BODY = [[38, 8], [50, 18], [62, 8], [74, 13], [92, 34], [80, 44], [70, 36], [70, 94], [30, 94], [30, 36], [20, 44], [8, 34], [26, 13]], SL = [[[26, 13], [8, 34], [20, 44], [30, 36], [30, 20]], [[74, 13], [92, 34], [80, 44], [70, 36], [70, 20]]];
+  if (th[0] || th[1]) { for (let k = 4; k >= 1; k--) { const o = ([x, y]) => [x + th[0]*k/4, y + th[1]*k/4];   // 두께: 아래로 겹겹이(옆선) — 몸통은 흰 천 그늘, 소매는 짙은 남색
+      poly(BODY.map(o), '#cfd5de', k === 4 ? 1.4 : 0); SL.forEach(S => poly(S.map(o), '#111c3d', k === 4 ? 1.4 : 0)); } }
+  poly(BODY, '#fffdf6');
+  ctx.strokeStyle = 'rgba(56,68,90,.18)'; ctx.lineWidth = 1.6; [[32, 50, 46, 58], [54, 76, 68, 70], [36, 84, 52, 88]].forEach(([a, b, c, d]) => { ctx.beginPath(); ctx.moveTo(a, b); ctx.quadraticCurveTo((a + c)/2, (b + d)/2 - 3, c, d); ctx.stroke(); });   // 천 주름
+  ctx.strokeStyle = 'rgba(26,42,90,.3)'; ctx.lineWidth = 1; for (let x = 34; x < 70; x += 5) { ctx.beginPath(); ctx.moveTo(x, 20); ctx.lineTo(x, 92); ctx.stroke(); }   // 핀스트라이프
+  SL.forEach(S => poly(S, JN));
+  ctx.strokeStyle = JR; ctx.lineWidth = 2.2; ctx.beginPath(); ctx.moveTo(11, 36); ctx.lineTo(21, 42); ctx.moveTo(89, 36); ctx.lineTo(79, 42); ctx.stroke();   // 소매 끝 빨간 줄
+  ctx.strokeStyle = JN; ctx.lineWidth = 3.4; ctx.beginPath(); ctx.moveTo(38, 9); ctx.lineTo(50, 19); ctx.lineTo(62, 9); ctx.stroke(); ctx.strokeStyle = JR; ctx.lineWidth = 1; ctx.stroke();
+  if (numA > 0) { ctx.save(); ctx.globalAlpha = numA; ctx.font = `900 40px 'Arial Black', Arial, ${FONT}`; ctx.textAlign = 'center'; ctx.textBaseline = 'middle'; ctx.lineJoin = 'round'; ctx.strokeStyle = JR; ctx.lineWidth = 5; ctx.strokeText(String(n), 50, 62); ctx.fillStyle = JN; ctx.fillText(String(n), 50, 62); ctx.restore(); }
   if (film > 0) { ctx.fillStyle = `rgba(230,240,250,${0.55*film})`; ctx.strokeStyle = `rgba(150,170,190,${film})`; ctx.lineWidth = 1; ctx.fillRect(22, 36, 56, 52); ctx.strokeRect(22, 36, 56, 52); }
 }
-function jerseyAt(x, yb, q, u, col, n){   // 세워 둔(개어서 앞을 보인) 유니폼: 앞 판·물건 그림 공통
-  ctx.fillStyle = 'rgba(30,36,51,.22)'; ctx.beginPath(); ctx.ellipse(x + 1*q, yb, 9*q, 1.8*q, 0, 0, Math.PI*2); ctx.fill();
-  const P = [[-5, -18], [0, -15.5], [5, -18], [10, -15], [14, -9], [10, -6.5], [8, -8], [8, 0], [-8, 0], [-8, -8], [-10, -6.5], [-14, -9], [-10, -15]];
-  ctx.beginPath(); P.forEach(([a, b], i) => i ? ctx.lineTo(x + a*q, yb + b*q) : ctx.moveTo(x + a*q, yb + b*q)); ctx.closePath(); ctx.fillStyle = '#fffdf6'; ctx.fill(); inkStroke(1.1, u);
-  ctx.fillStyle = col; [[[-10, -15], [-14, -9], [-10, -6.5], [-8, -8], [-8, -13]], [[10, -15], [14, -9], [10, -6.5], [8, -8], [8, -13]]].forEach(S => { ctx.beginPath(); S.forEach(([a, b], i) => i ? ctx.lineTo(x + a*q, yb + b*q) : ctx.moveTo(x + a*q, yb + b*q)); ctx.closePath(); ctx.fill(); });
-  ctx.strokeStyle = col; ctx.lineWidth = 1.4*q; ctx.beginPath(); ctx.moveTo(x - 5*q, yb - 17.5*q); ctx.lineTo(x, yb - 15*q); ctx.lineTo(x + 5*q, yb - 17.5*q); ctx.stroke();
-  ctx.font = `900 ${Math.round(9*q*10)/10}px 'Arial Black', Arial, ${FONT}`; ctx.textAlign = 'center'; ctx.textBaseline = 'middle'; ctx.fillStyle = col; ctx.fillText(String(n), x, yb - 6.5*q);
+function jerseyAt(x, yb, q, u){   // 개어서 세워 둔 유니폼(두께 있는 셔츠 묶음): 앞면 = 깃·어깨(접은 소매)·5번, 윗면·옆면(시점 쪽, VDX)으로 두께
+  const w = 19*q, h = 12*q, d = 5*q, dx = d*VDX/DY*1.6, x0 = x - w/2, x1 = x + w/2, top = yb - h, e = VDX < 0 ? x0 : x1;
+  const face = (pts, fill) => { ctx.beginPath(); pts.forEach(([a, b], i) => i ? ctx.lineTo(a, b) : ctx.moveTo(a, b)); ctx.closePath(); ctx.fillStyle = fill; ctx.fill(); inkStroke(1, u); };
+  ctx.fillStyle = 'rgba(30,36,51,.22)'; ctx.beginPath(); ctx.ellipse(x + 2*q, yb, w/2 + 2*q, 2*q, 0, 0, Math.PI*2); ctx.fill();
+  face([[x0, top], [x0 + dx, top - d], [x1 + dx, top - d], [x1, top]], '#eef1f5');   // 윗면(접힌 결)
+  ctx.strokeStyle = 'rgba(26,42,90,.25)'; ctx.lineWidth = 0.7*u; for (let i = 1; i < 3; i++) { ctx.beginPath(); ctx.moveTo(x0 + dx*i/3 + 1*q, top - d*i/3); ctx.lineTo(x1 + dx*i/3 - 1*q, top - d*i/3); ctx.stroke(); }
+  if (dx) face([[e, top], [e + dx, top - d], [e + dx, yb - d], [e, yb]], '#d5dbe4');   // 옆면
+  rr(x0, top, w, h, 1.2*q); ctx.fillStyle = '#fffdf6'; ctx.fill(); inkStroke(1.1, u);   // 앞면
+  ctx.save(); rr(x0, top, w, h, 1.2*q); ctx.clip();
+  ctx.strokeStyle = 'rgba(26,42,90,.3)'; ctx.lineWidth = 0.6*q; for (let xx = x0 + 2.2*q; xx < x1; xx += 2.6*q) { ctx.beginPath(); ctx.moveTo(xx, top); ctx.lineTo(xx, yb); ctx.stroke(); }   // 핀스트라이프
+  ctx.fillStyle = JN; ctx.fillRect(x0, top, 3*q, h); ctx.fillRect(x1 - 3*q, top, 3*q, h);   // 접어 넣은 소매(남색)
+  ctx.fillStyle = JR; ctx.fillRect(x0 + 3*q, top, 0.8*q, h); ctx.fillRect(x1 - 3.8*q, top, 0.8*q, h); ctx.restore();
+  ctx.strokeStyle = JN; ctx.lineWidth = 1.6*q; ctx.beginPath(); ctx.moveTo(x - 3.5*q, top + 0.3*q); ctx.lineTo(x, top + 3.6*q); ctx.lineTo(x + 3.5*q, top + 0.3*q); ctx.stroke(); ctx.strokeStyle = JR; ctx.lineWidth = 0.6*q; ctx.stroke();   // 깃
+  ctx.font = `900 ${Math.round(8.5*q*10)/10}px 'Arial Black', Arial, ${FONT}`; ctx.textAlign = 'center'; ctx.textBaseline = 'middle'; ctx.lineJoin = 'round'; ctx.strokeStyle = JR; ctx.lineWidth = 1.3*q; ctx.strokeText(String(JERSEY_NO), x, yb - 4.6*q); ctx.fillStyle = JN; ctx.fillText(String(JERSEY_NO), x, yb - 4.6*q);
 }
 function animUniform10({ S2, u, now, prog, work, s, k }){
   menuSign(S2, u, now, s, '유니폼', '#ffe08a', 23, 23);
-  const col = '#d33a3a', n = JERSEY_NUMS[(s.items + (k || 0)*3) % JERSEY_NUMS.length];
+  const col = JN, n = JERSEY_NO;
   const bl = S2(32.9, 84, 92), br = S2(130.9, 84, 92), fl = S2(22, 122, 130), fr = S2(120, 122, 130), P = (lx, ly) => [bl[0] + (br[0] - bl[0])*lx/100 + (fl[0] - bl[0])*ly/100, bl[1] + (fl[1] - bl[1])*ly/100];
   const quad = (a, b, c, d, fill, lw = 1.2) => { ctx.beginPath(); [a, b, c, d].forEach(([x, y], i) => i ? ctx.lineTo(x, y) : ctx.moveTo(x, y)); ctx.closePath(); ctx.fillStyle = fill; ctx.fill(); inkStroke(lw, u); };
   quad(P(5, 6), P(95, 6), P(95, 94), P(5, 94), '#e3e8ee');   // 테플론 판
   const enter = work ? lerp01(prog, 0, 0.12) : 1, film = work ? (prog < 0.12 ? 0 : prog < 0.6 ? lerp01(prog, 0.12, 0.26) : 1 - lerp01(prog, 0.6, 0.66)) : 0, pressed = work && prog > 0.38, fold = work ? lerp01(prog, 0.66, 0.72) : 0;
   if (enter > 0 && fold < 1) { ctx.save(); ctx.globalAlpha = enter*(1 - fold); ctx.transform((br[0] - bl[0])/100, 0, (fl[0] - bl[0])/100, (fl[1] - bl[1])/100, bl[0] - (1 - enter)*40*u, bl[1]);
-    ctx.translate(50, 50); ctx.scale(1 - fold*0.5, 1 - fold*0.5); ctx.translate(-50, -50); jerseyFlat(n, col, pressed ? 1 : film*0.35, film); ctx.restore(); }
+    ctx.translate(50, 50); ctx.scale(1 - fold*0.5, 1 - fold*0.5); ctx.translate(-50, -50); jerseyFlat(n, col, pressed ? 1 : film*0.35, film, (() => { const a = (br[0] - bl[0])/100, c = (fl[0] - bl[0])/100, d = (fl[1] - bl[1])/100, dy = 3.2*u/d; return [-c*dy/a, dy]; })()); ctx.restore(); }   // 화면 아래 3.2u = 천 두께
   if (work && prog > 0.6 && prog < 0.66) { const t = lerp01(prog, 0.6, 0.66), [x, y] = P(78 + t*30, 40 - t*20); ctx.fillStyle = `rgba(230,240,250,${0.8*(1 - t)})`; ctx.beginPath(); ctx.moveTo(x, y); ctx.lineTo(x + 10*u, y - 6*u); ctx.lineTo(x + 14*u, y + 4*u); ctx.closePath(); ctx.fill(); }   // 떼어 내는 필름
   const open = work ? (prog < 0.3 ? 1 : prog < 0.38 ? 1 - lerp01(prog, 0.3, 0.38) : prog < 0.55 ? 0 : lerp01(prog, 0.55, 0.62)) : 1, th = 7*u, glow = work && prog > 0.38 && prog < 0.56;
   const D = (lx, ly) => { const [x, y] = P(lx, ly); return [x, y - 1*u]; }, L = (lx, ly) => { const [x, y] = P(lx, ly); return [x, y - 1*u - th]; };
@@ -2439,8 +2453,8 @@ function animUniform10({ S2, u, now, prog, work, s, k }){
   }
   if (glow) steam(S2, u, now, [30, 76, 122], 116, 111);
   const [jx, jy] = S2(186, 124);
-  if (work && prog > 0.66 && prog < 0.72) { ctx.save(); ctx.globalAlpha = fold; jerseyAt(jx, jy, u*1.1, u, col, n); ctx.restore(); }
-  if (!work || prog < 0.66) jerseyAt(...S2(204, 116), u*0.95, u, col, JERSEY_NUMS[(s.items + 5) % JERSEY_NUMS.length]);   // 판 위에 해 둔 한 벌
+  if (work && prog > 0.66 && prog < 0.72) { ctx.save(); ctx.globalAlpha = fold; jerseyAt(jx, jy, u*1.1, u); ctx.restore(); }
+  if (!work || prog < 0.66) jerseyAt(...S2(204, 116), u*0.95, u);   // 판 위에 해 둔 한 벌
 }
 // 2층 0번 호떡(위에서 본 철판): 반죽 공 여섯 개 → 누르개가 하나씩 꾹(10~40%) → 넓적해지며 노릇 + 흑설탕 꿀 보글 → 뒤집개로 쟁반(72~80%)
 const HOT_AT = [[46, 76], [91, 76], [136, 76], [46, 102], [91, 102], [136, 102]];
@@ -3436,12 +3450,13 @@ function guestBody(g, sx, by, u, hb, body){
     ctx.fillStyle = '#fff3b0'; [[-5, 5], [5, 9], [-3, 15]].forEach(([dx, dy]) => { ctx.beginPath(); ctx.arc(sx + dx*u, by + dy*u, 2*u, 0, Math.PI*2); ctx.fill(); });
     ctx.strokeStyle = '#38445a'; ctx.lineWidth = 1*u; ctx.beginPath(); ctx.moveTo(sx - 5*u, by); ctx.lineTo(sx, by + 7*u); ctx.lineTo(sx + 5*u, by); ctx.stroke();
     ctx.fillStyle = '#38445a'; rr(sx - 4*u, by + 6*u, 8*u, 6*u, 1.5*u); ctx.fill(); ctx.fillStyle = '#9fd8e8'; ctx.beginPath(); ctx.arc(sx, by + 9*u, 1.8*u, 0, Math.PI*2); ctx.fill();
-  } else if (g === 'fan' || g === 'fanB') {        // 야구 팬: 줄무늬 유니폼 + 가슴 번호 + 옆에 든 막대풍선
+  } else if (g === 'fan' || g === 'fanB') {        // 야구 팬: 줄무늬 유니폼 + 가슴 번호 + 옆에서 흔드는 응원 타월(막대풍선은 금지 — 사용자)
     const tc = g === 'fan' ? '#d33a3a' : '#fff';
     ctx.strokeStyle = g === 'fan' ? 'rgba(45,63,107,.25)' : 'rgba(255,255,255,.3)'; ctx.lineWidth = 0.8*u; [-5, -1.5, 2, 5.5].forEach(d => { ctx.beginPath(); ctx.moveTo(sx + d*u, by + 2*u); ctx.lineTo(sx + d*u, by + 20*u); ctx.stroke(); });
     ctx.strokeStyle = tc; ctx.lineWidth = 1.6*u; ctx.beginPath(); ctx.moveTo(sx - 4*u, by + 1*u); ctx.lineTo(sx, by + 5*u); ctx.lineTo(sx + 4*u, by + 1*u); ctx.stroke();
     ctx.font = `${Math.round(8*u)}px ${FONT}`; ctx.textAlign = 'center'; ctx.textBaseline = 'middle'; ctx.fillStyle = tc; ctx.fillText(g === 'fan' ? '7' : '23', sx, by + 12*u);
-    ctx.save(); ctx.translate(sx + 11*u, by + 10*u); ctx.rotate(0.35 + Math.sin(performance.now()/160 + sx)*0.25); rr(-2*u, -20*u, 4*u, 20*u, 2*u); ctx.fillStyle = g === 'fan' ? '#2f6fd1' : '#f2c230'; ctx.fill(); ctx.restore();
+    ctx.save(); ctx.translate(sx + 11*u, by + 4*u); ctx.rotate(0.15 + Math.sin(performance.now()/200 + sx)*0.2); rr(-3.6*u, -15*u, 7.2*u, 16*u, 1.5*u); ctx.fillStyle = g === 'fan' ? '#2f6fd1' : '#f2c230'; ctx.fill();   // 응원 타월(흔듦)
+      ctx.fillStyle = '#fff'; ctx.fillRect(-3.6*u, -10*u, 7.2*u, 2*u); ctx.fillRect(-3.6*u, -5.5*u, 7.2*u, 2*u); ctx.restore();
   } else if (g === 'youth') {                      // 후드티: 앞주머니 + 끈
     ctx.fillStyle = '#d9826a'; rr(sx - 6*u, by + 12*u, 12*u, 6*u, 2*u); ctx.fill();
     ctx.strokeStyle = '#fff'; ctx.lineWidth = 1*u; ctx.beginPath(); ctx.moveTo(sx - 2*u, by + 1*u); ctx.lineTo(sx - 2*u, by + 7*u); ctx.moveTo(sx + 2*u, by + 1*u); ctx.lineTo(sx + 2*u, by + 7*u); ctx.stroke();

diff --git a/app/data/apps.ts b/app/data/apps.ts
@@ -382,7 +382,7 @@ export const apps: App[] = [
 • 9층 층층 박물관 굿즈샵: 대리석 기둥 간판에 벽엔 조명 받는 액자(일월오봉도·산수화), 들어오면 은은한 종소리. 반가사유상(도가니 쇳물을 거푸집에 → 두 쪽이 열림) · 달항아리(물레 → 하얀 유약 → 가마) · 신라 금관(금 띠 → 出자 장식 + 망치 톡톡 → 곡옥). 체험학습 초등학생·관광객이 오고, 박물관이라 재촉도 속삭여요
 • 주인공은 사장님 로봇 '둥실이' — 바닥 위에 둥둥 떠다니고, 얼굴 화면 속 눈으로 표정을 지어요(돈 주우면 ^^, 황금·레벨 업 ★, 도둑 나타나면 깜짝, 건물주 놓치면 화남, 오래 가만히 있으면 졸음 zZ)
 • 직원(일꾼)도 층마다 그 가게 유니폼을 입어요 — 분식 빨간 앞치마·두건, 치킨 위생모, 편의점 민트 조끼, 찜질방 갈색 앞치마, 한복대여 개량한복 등
-• 10층 층층 야구장 매점: 천막 대신 B·S·O 불이 켜진 전광판과 조명탑, 앞판은 노란 줄 외야 펜스. 응원 막대풍선(공기 주입기로 빵빵 → 한 쌍으로 묶기) · 핫도그(롤러 그릴에서 데굴데굴 → 빵에 쏙 → 케첩·머스터드) · 유니폼 마킹(열 프레스로 등번호 꾹). 들어오면 응원 북 소리, 손님은 유니폼 입은 야구 팬
+• 10층 층층 야구장 매점: 천막 대신 B·S·O 불이 켜진 전광판과 조명탑, 앞판은 노란 줄 외야 펜스. 생맥주(맥주 타워 손잡이를 당기면 콸콸 → 거품 봉긋) · 소떡소떡(숯불 석쇠에서 노릇 → 붓으로 빨간 양념 → 종이컵에 쏙) · 유니폼 마킹(남색 핀스트라이프 유니폼에 열 프레스로 5번 꾹). 들어오면 응원 북 소리, 손님은 응원 타월을 흔드는 야구 팬
 • 11층부터는 3D 프린터 공장이 이어지고, 층은 끝없이 올라갑니다. 위층일수록 물건 값이 5배씩 오릅니다.
 • 층마다 손님도 다릅니다(교복 학생, 퇴근길 직장인, 할머니, 등산모자 아저씨, 밀짚모자 관광객…). 맨 앞에 오면 "김밥 2줄이요!", "반반 무 많이요!"처럼 주문합니다.
 

diff --git a/app/components/StackGuide.vue b/app/components/StackGuide.vue
@@ -75,7 +75,7 @@ const floors = [
   { n: 7, shop: '층층 뷰티', menu: '마스크팩 · 쿠션 · 립틴트' },
   { n: 8, shop: '층층 한복대여', menu: '여자 한복 · 남자 한복 · 노리개' },
   { n: 9, shop: '층층 박물관 굿즈샵', menu: '반가사유상 · 달항아리 · 금관' },
-  { n: 10, shop: '층층 야구장 매점', menu: '응원 막대풍선 · 핫도그 · 유니폼 마킹' },
+  { n: 10, shop: '층층 야구장 매점', menu: '생맥주 · 소떡소떡 · 유니폼 마킹' },
   { n: 11, shop: '3D 프린터 공장', menu: '11층부터 끝없이 위로' }
 ]
 

diff --git a/CLAUDE.md b/CLAUDE.md
@@ -78,6 +78,10 @@ version: 'x.y.z+build'
 ## 작업 히스토리
 
 ### 2026-10-23
+- 층층이 10층 메뉴 교체(사용자: 응원 막대풍선은 요즘 금지, '맥주가 빠질 순 없지' + 먹는 건 소떡소떡): 0번 생맥주 `BEER10`/`animBeer10`(뒤 은색 케그 + 호스, 크롬 맥주 타워 손잡이 당기면 콸콸 → 기포·거품 봉긋 → 가라앉힘 → 앞 판으로, `beerCup`) ·
+  1번 소떡소떡 `SOT10`/`animSotteok10`(숯불 석쇠 꼬치 셋 — 뒤 둘은 굽는 중, 맨 앞이 노릇·석쇠 자국 → 붓 양념 → 깨·파슬리 → 종이컵에 쏙, `skewer`/`sotteokCup`). 엠블럼 맥주잔·꼬치 캐릭터, 물건 beer·sotteok(이름 '야구장 간식'), 주문 대사.
+  2번 유니폼 = 두산 느낌 색(사용자 요청 — 흰 바탕 + 남색 핀스트라이프·소매·깃 + 빨간 테두리 남색 번호, `JN`/`JR`, 이름·곰 로고는 상표라 안 씀), 번호 늘 5번(`JERSEY_NO`), 부스 남색. 물건 `jerseyAt` = 두께 있는 개어 둔 셔츠(윗면·시점 쪽 옆면),
+  프레스 판 위 `jerseyFlat`에 천 두께(화면 아래 3.2u를 지역 좌표로, 겹겹이 옆선) + 주름. 야구 팬 손님 막대풍선 → 응원 타월. 핫도그·막대풍선 코드 삭제. 헤드리스 오류 0. 자료실 '층층이_10층_생맥주소떡소떡_20261023.png'·'…_유니폼5번…'·'…_프레스유니폼두께…'
 - 층층이 10층 야구장 매점 다시(사용자: '1층이랑 포맷이 너무 같다, 천막 없애거나 다른 형태로 + 1층처럼 원근'): 부스 틀에 `B.roof:'board'`(+ 테마 `roof:'board'`) — ㅅ자 천막 대신 `boardRoof()` 철 기둥 둘 + 전광판(B·S·O 불 · 가게 이름 칸 · 1 2 3 / 0 2 1 점수판, 윗면·시점 쪽 옆면) + 기둥 꼭대기 조명탑(불빛은 `boothLights(..., tower)`) — 전광판이 기둥 깊이에 있어 상판을 안 가림.
   앞판 `B.fence` = 외야 펜스(위 노란 줄 + 세로 쿠션 이음매, 별 대신 홈플레이트). 세 대 원근 vdx 16·0·-16(`HOT10`·`UNI10` withDX), 열 프레스 윗판 옆면 `VDX` 쪽, 핫도그 그릴·프레스 판은 받침 높이 8만큼 깊이 기준(`S2(x, v, v + 8)`).
   헤드리스 20·45·68%·고장, 1층 그대로, 진짜 게임 오류 0. 소개 페이지 10층 카드 다시 찍음. 자료실 '층층이_10층야구장_전광판원근_20261023.png'
